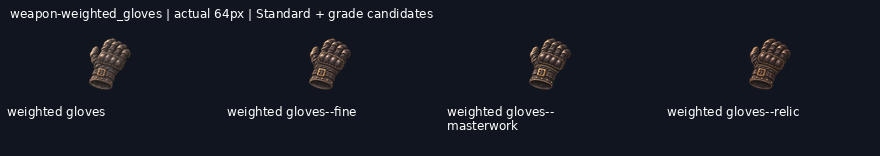
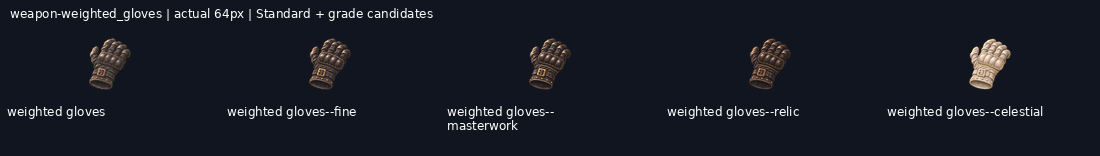
Deliver weapon-weighted_gloves--celestial review candidate

diff --git a/art/_archive/gear/2026-11-20-reset-continuation/HANDOFF.md b/art/_archive/gear/2026-11-20-reset-continuation/HANDOFF.md
@@ -1,13 +1,13 @@
 # Reset continuation progress
 
-Branch: `art/2026-11-20-reset-continuation`. New deliveries: 82/106.
+Branch: `art/2026-11-20-reset-continuation`. New deliveries: 83/106.
 
 Shared coordination: https://github.com/leonpentastorm/Project-Heaven-Cry/issues/3 . Read START-HERE.md before extending this queue.
 
 All new entries remain review-candidate; production_approved:false and implementation_ready:false. Exact-outline review remains pending.
 
-Ready jobs: weapon-weighted_gloves--celestial.
+Ready jobs: .
 
-Pending jobs: weapon-hellraiser_rotary--celestial, weapon-purifier_flamer--masterwork, weapon-purifier_flamer--relic, weapon-purifier_flamer--celestial, weapon-dock_cutter--masterwork, weapon-dock_cutter--relic, weapon-dock_cutter--celestial, weapon-broadback_sabre--relic, weapon-broadback_sabre--celestial, weapon-short_draw--fine, weapon-short_draw--masterwork, weapon-short_draw--relic, weapon-short_draw--celestial, weapon-long_draw--fine, weapon-long_draw--masterwork, weapon-long_draw--relic, weapon-long_draw--celestial, weapon-kemizuchi_side_sword--masterwork, weapon-kemizuchi_side_sword--relic, weapon-kemizuchi_side_sword--celestial, weapon-ork_cleaver_glaive--masterwork, weapon-ork_cleaver_glaive--relic, weapon-ork_cleaver_glaive--celestial, weapon-weighted_gloves--celestial.
+Pending jobs: weapon-hellraiser_rotary--celestial, weapon-purifier_flamer--masterwork, weapon-purifier_flamer--relic, weapon-purifier_flamer--celestial, weapon-dock_cutter--masterwork, weapon-dock_cutter--relic, weapon-dock_cutter--celestial, weapon-broadback_sabre--relic, weapon-broadback_sabre--celestial, weapon-short_draw--fine, weapon-short_draw--masterwork, weapon-short_draw--relic, weapon-short_draw--celestial, weapon-long_draw--fine, weapon-long_draw--masterwork, weapon-long_draw--relic, weapon-long_draw--celestial, weapon-kemizuchi_side_sword--masterwork, weapon-kemizuchi_side_sword--relic, weapon-kemizuchi_side_sword--celestial, weapon-ork_cleaver_glaive--masterwork, weapon-ork_cleaver_glaive--relic, weapon-ork_cleaver_glaive--celestial.
 
 Quota state: null.
